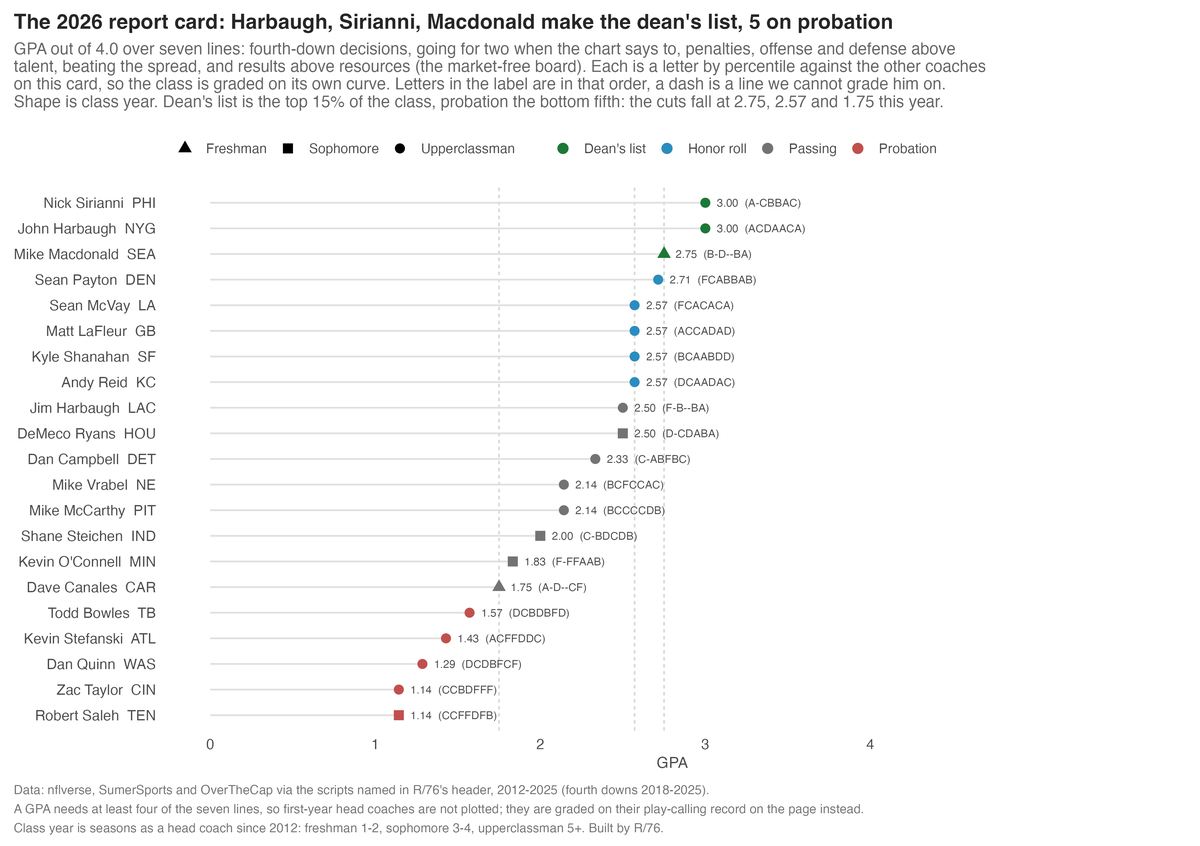
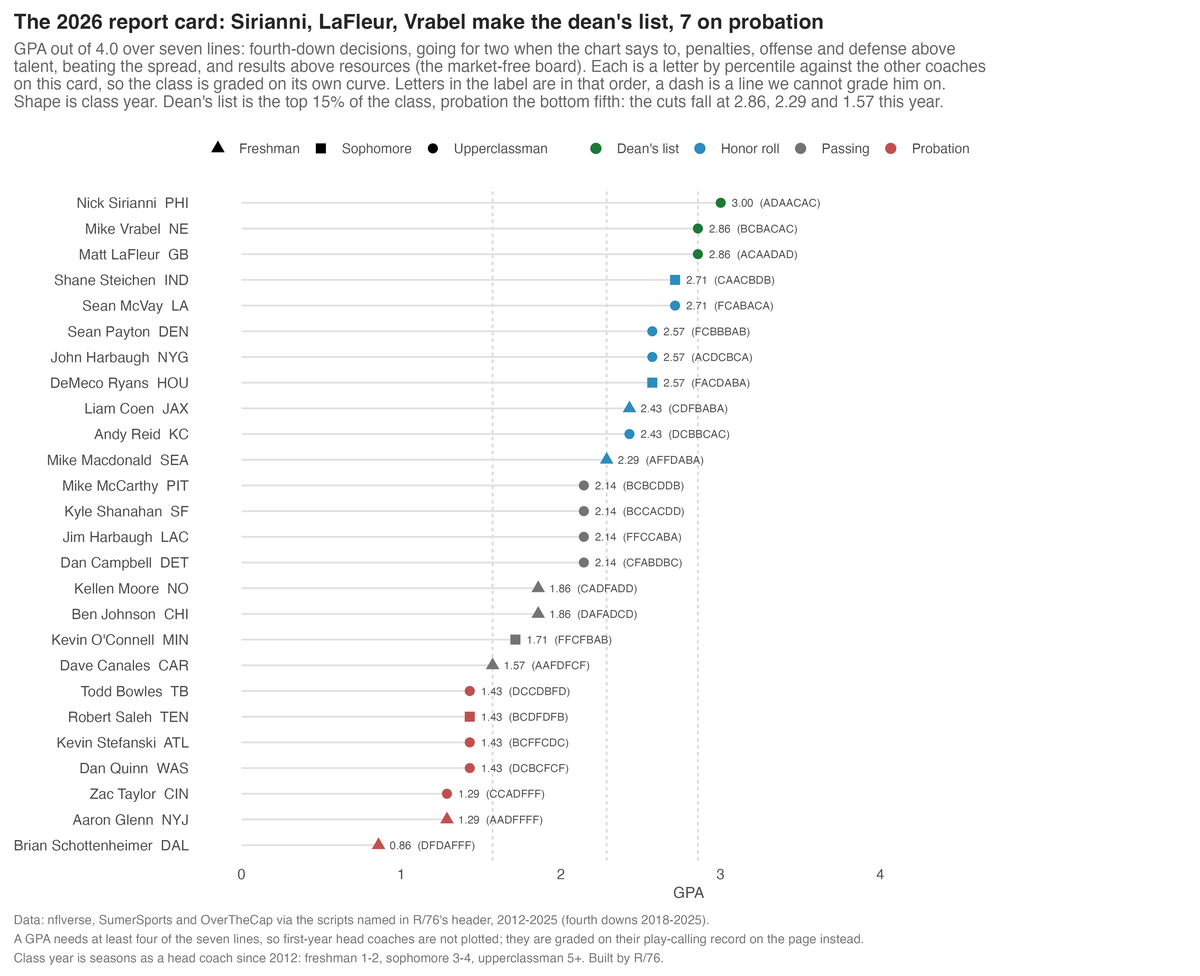
Rebuild card lines per coach-season (R/81) so first-year head coaches are graded on the season they coached

Changed region(s): [[0.0, 0.0, 0.8125, 0.8689], [0.0312, 0.1862, 0.1562, 0.8689], [0.0, 0.8999, 0.7188, 0.993]]

diff --git a/docs/war.html b/docs/war.html
@@ -125,42 +125,42 @@
     <div style="overflow-x:auto"><table class="card" id="rcard">
       <thead><tr><th>#</th><th>Coach</th><th>Class</th><th>4th downs</th><th>Two-point</th><th>Penalties</th><th>Offense</th><th>Defense</th><th>Beats spread</th><th>Results</th><th>As a caller</th><th>GPA</th><th>Tier</th></tr></thead>
       <tbody>
-<tr><td>1</td><td class="name"><img src="https://a.espncdn.com/i/teamlogos/nfl/500/nyg.png" alt="NYG" class="lg">John Harbaugh</td><td>Upperclassman<span class="dim"> (14)</span></td><td class="g gA">A</td><td class="g gC">C</td><td class="g gD">D</td><td class="g gA">A</td><td class="g gA">A</td><td class="g gC">C</td><td class="g gA">A</td><td class="inc">?</td><td data-v="3.000"><b>3.00</b></td><td class="tier tdeans">Dean's list</td></tr>
-<tr><td>2</td><td class="name"><img src="https://a.espncdn.com/i/teamlogos/nfl/500/phi.png" alt="PHI" class="lg">Nick Sirianni</td><td>Upperclassman<span class="dim"> (5)</span></td><td class="g gA">A</td><td class="inc">?</td><td class="g gC">C</td><td class="g gB">B</td><td class="g gB">B</td><td class="g gA">A</td><td class="g gC">C</td><td class="inc">?</td><td data-v="3.000"><b>3.00</b></td><td class="tier tdeans">Dean's list</td></tr>
-<tr><td>3</td><td class="name"><img src="https://a.espncdn.com/i/teamlogos/nfl/500/sea.png" alt="SEA" class="lg">Mike Macdonald</td><td>Freshman<span class="dim"> (2)</span></td><td class="g gB">B</td><td class="inc">?</td><td class="g gD">D</td><td class="inc">?</td><td class="inc">?</td><td class="g gB">B</td><td class="g gA">A</td><td class="g gA">A<span class="dim" style="font-weight:400"> def</span></td><td data-v="2.750"><b>2.75</b></td><td class="tier tdeans">Dean's list</td></tr>
-<tr><td>4</td><td class="name"><img src="https://a.espncdn.com/i/teamlogos/nfl/500/den.png" alt="DEN" class="lg">Sean Payton</td><td>Upperclassman<span class="dim"> (12)</span></td><td class="g gF">F</td><td class="g gC">C</td><td class="g gA">A</td><td class="g gB">B</td><td class="g gB">B</td><td class="g gA">A</td><td class="g gB">B</td><td class="g gA">A<span class="dim" style="font-weight:400"> off</span></td><td data-v="2.714"><b>2.71</b></td><td class="tier thonor">Honor roll</td></tr>
-<tr><td>5</td><td class="name"><img src="https://a.espncdn.com/i/teamlogos/nfl/500/gb.png" alt="GB" class="lg">Matt LaFleur</td><td>Upperclassman<span class="dim"> (7)</span></td><td class="g gA">A</td><td class="g gC">C</td><td class="g gC">C</td><td class="g gA">A</td><td class="g gD">D</td><td class="g gA">A</td><td class="g gD">D</td><td class="g gA">A<span class="dim" style="font-weight:400"> off</span></td><td data-v="2.571"><b>2.57</b></td><td class="tier thonor">Honor roll</td></tr>
-<tr><td>6</td><td class="name"><img src="https://a.espncdn.com/i/teamlogos/nfl/500/kc.png" alt="KC" class="lg">Andy Reid</td><td>Upperclassman<span class="dim"> (14)</span></td><td class="g gD">D</td><td class="g gC">C</td><td class="g gA">A</td><td class="g gA">A</td><td class="g gD">D</td><td class="g gA">A</td><td class="g gC">C</td><td class="g gA">A<span class="dim" style="font-weight:400"> off</span></td><td data-v="2.571"><b>2.57</b></td><td class="tier thonor">Honor roll</td></tr>
-<tr><td>7</td><td class="name"><img src="https://a.espncdn.com/i/teamlogos/nfl/500/lar.png" alt="LA" class="lg">Sean McVay</td><td>Upperclassman<span class="dim"> (9)</span></td><td class="g gF">F</td><td class="g gC">C</td><td class="g gA">A</td><td class="g gC">C</td><td class="g gA">A</td><td class="g gC">C</td><td class="g gA">A</td><td class="g gA">A<span class="dim" style="font-weight:400"> off</span></td><td data-v="2.571"><b>2.57</b></td><td class="tier thonor">Honor roll</td></tr>
-<tr><td>8</td><td class="name"><img src="https://a.espncdn.com/i/teamlogos/nfl/500/sf.png" alt="SF" class="lg">Kyle Shanahan</td><td>Upperclassman<span class="dim"> (9)</span></td><td class="g gB">B</td><td class="g gC">C</td><td class="g gA">A</td><td class="g gA">A</td><td class="g gB">B</td><td class="g gD">D</td><td class="g gD">D</td><td class="g gA">A<span class="dim" style="font-weight:400"> off</span></td><td data-v="2.571"><b>2.57</b></td><td class="tier thonor">Honor roll</td></tr>
-<tr><td>9</td><td class="name"><img src="https://a.espncdn.com/i/teamlogos/nfl/500/hou.png" alt="HOU" class="lg">DeMeco Ryans</td><td>Sophomore<span class="dim"> (3)</span></td><td class="g gD">D</td><td class="inc">?</td><td class="g gC">C</td><td class="g gD">D</td><td class="g gA">A</td><td class="g gB">B</td><td class="g gA">A</td><td class="g gA">A<span class="dim" style="font-weight:400"> def</span></td><td data-v="2.500"><b>2.50</b></td><td class="tier tpassing">Passing</td></tr>
-<tr><td>10</td><td class="name"><img src="https://a.espncdn.com/i/teamlogos/nfl/500/lac.png" alt="LAC" class="lg">Jim Harbaugh</td><td>Upperclassman<span class="dim"> (5)</span></td><td class="g gF">F</td><td class="inc">?</td><td class="g gB">B</td><td class="inc">?</td><td class="inc">?</td><td class="g gB">B</td><td class="g gA">A</td><td class="inc">?</td><td data-v="2.500"><b>2.50</b></td><td class="tier tpassing">Passing</td></tr>
-<tr><td>11</td><td class="name"><img src="https://a.espncdn.com/i/teamlogos/nfl/500/det.png" alt="DET" class="lg">Dan Campbell</td><td>Upperclassman<span class="dim"> (5)</span></td><td class="g gC">C</td><td class="inc">?</td><td class="g gA">A</td><td class="g gB">B</td><td class="g gF">F</td><td class="g gB">B</td><td class="g gC">C</td><td class="inc">?</td><td data-v="2.333"><b>2.33</b></td><td class="tier tpassing">Passing</td></tr>
-<tr><td>12</td><td class="name"><img src="https://a.espncdn.com/i/teamlogos/nfl/500/ne.png" alt="NE" class="lg">Mike Vrabel</td><td>Upperclassman<span class="dim"> (7)</span></td><td class="g gB">B</td><td class="g gC">C</td><td class="g gF">F</td><td class="g gC">C</td><td class="g gC">C</td><td class="g gA">A</td><td class="g gC">C</td><td class="inc">?</td><td data-v="2.143"><b>2.14</b></td><td class="tier tpassing">Passing</td></tr>
-<tr><td>13</td><td class="name"><img src="https://a.espncdn.com/i/teamlogos/nfl/500/pit.png" alt="PIT" class="lg">Mike McCarthy</td><td>Upperclassman<span class="dim"> (12)</span></td><td class="g gB">B</td><td class="g gC">C</td><td class="g gC">C</td><td class="g gC">C</td><td class="g gC">C</td><td class="g gD">D</td><td class="g gB">B</td><td class="g gA">A<span class="dim" style="font-weight:400"> off</span></td><td data-v="2.143"><b>2.14</b></td><td class="tier tpassing">Passing</td></tr>
-<tr><td>14</td><td class="name"><img src="https://a.espncdn.com/i/teamlogos/nfl/500/ind.png" alt="IND" class="lg">Shane Steichen</td><td>Sophomore<span class="dim"> (3)</span></td><td class="g gC">C</td><td class="inc">?</td><td class="g gB">B</td><td class="g gD">D</td><td class="g gC">C</td><td class="g gD">D</td><td class="g gB">B</td><td class="g gB">B<span class="dim" style="font-weight:400"> off</span></td><td data-v="2.000"><b>2.00</b></td><td class="tier tpassing">Passing</td></tr>
-<tr><td>15</td><td class="name"><img src="https://a.espncdn.com/i/teamlogos/nfl/500/min.png" alt="MIN" class="lg">Kevin O'Connell</td><td>Sophomore<span class="dim"> (4)</span></td><td class="g gF">F</td><td class="inc">?</td><td class="g gF">F</td><td class="g gF">F</td><td class="g gA">A</td><td class="g gA">A</td><td class="g gB">B</td><td class="g gF">F<span class="dim" style="font-weight:400"> off</span></td><td data-v="1.833"><b>1.83</b></td><td class="tier tpassing">Passing</td></tr>
-<tr><td>16</td><td class="name"><img src="https://a.espncdn.com/i/teamlogos/nfl/500-dark/car.png" alt="CAR" class="lg">Dave Canales</td><td>Freshman<span class="dim"> (2)</span></td><td class="g gA">A</td><td class="inc">?</td><td class="g gD">D</td><td class="inc">?</td><td class="inc">?</td><td class="g gC">C</td><td class="g gF">F</td><td class="g gD">D<span class="dim" style="font-weight:400"> off</span></td><td data-v="1.750"><b>1.75</b></td><td class="tier tpassing">Passing</td></tr>
-<tr><td>17</td><td class="name"><img src="https://a.espncdn.com/i/teamlogos/nfl/500/tb.png" alt="TB" class="lg">Todd Bowles</td><td>Upperclassman<span class="dim"> (8)</span></td><td class="g gD">D</td><td class="g gC">C</td><td class="g gB">B</td><td class="g gD">D</td><td class="g gB">B</td><td class="g gF">F</td><td class="g gD">D</td><td class="g gA">A<span class="dim" style="font-weight:400"> def</span></td><td data-v="1.571"><b>1.57</b></td><td class="tier tprobation">Probation</td></tr>
-<tr><td>18</td><td class="name"><img src="https://a.espncdn.com/i/teamlogos/nfl/500/atl.png" alt="ATL" class="lg">Kevin Stefanski</td><td>Upperclassman<span class="dim"> (6)</span></td><td class="g gA">A</td><td class="g gC">C</td><td class="g gF">F</td><td class="g gF">F</td><td class="g gD">D</td><td class="g gD">D</td><td class="g gC">C</td><td class="g gD">D<span class="dim" style="font-weight:400"> off</span></td><td data-v="1.429"><b>1.43</b></td><td class="tier tprobation">Probation</td></tr>
-<tr><td>19</td><td class="name"><img src="https://a.espncdn.com/i/teamlogos/nfl/500/wsh.png" alt="WAS" class="lg">Dan Quinn</td><td>Upperclassman<span class="dim"> (7)</span></td><td class="g gD">D</td><td class="g gC">C</td><td class="g gD">D</td><td class="g gB">B</td><td class="g gF">F</td><td class="g gC">C</td><td class="g gF">F</td><td class="g gA">A<span class="dim" style="font-weight:400"> def</span></td><td data-v="1.286"><b>1.29</b></td><td class="tier tprobation">Probation</td></tr>
-<tr><td>20</td><td class="name"><img src="https://a.espncdn.com/i/teamlogos/nfl/500/cin.png" alt="CIN" class="lg">Zac Taylor</td><td>Upperclassman<span class="dim"> (7)</span></td><td class="g gC">C</td><td class="g gC">C</td><td class="g gB">B</td><td class="g gD">D</td><td class="g gF">F</td><td class="g gF">F</td><td class="g gF">F</td><td class="g gC">C<span class="dim" style="font-weight:400"> off</span></td><td data-v="1.143"><b>1.14</b></td><td class="tier tprobation">Probation</td></tr>
-<tr><td>21</td><td class="name"><img src="https://a.espncdn.com/i/teamlogos/nfl/500/ten.png" alt="TEN" class="lg">Robert Saleh</td><td>Sophomore<span class="dim"> (4)</span></td><td class="g gC">C</td><td class="g gC">C</td><td class="g gF">F</td><td class="g gF">F</td><td class="g gD">D</td><td class="g gF">F</td><td class="g gB">B</td><td class="g gB">B<span class="dim" style="font-weight:400"> def</span></td><td data-v="1.143"><b>1.14</b></td><td class="tier tprobation">Probation</td></tr>
-<tr class="sep"><td colspan="13">First-year and new head coaches: no head-coaching record yet, so they are graded on how they called plays before this</td></tr>
-<tr><td></td><td class="name"><img src="https://a.espncdn.com/i/teamlogos/nfl/500/cle.png" alt="CLE" class="lg">Todd Monken</td><td>New hire<span class="dim"> (0)</span></td><td class="inc">?</td><td class="inc">?</td><td class="inc">?</td><td class="inc">?</td><td class="inc">?</td><td class="inc">?</td><td class="inc">?</td><td class="g gA">A<span class="dim" style="font-weight:400"> off</span></td><td data-v="-1" class="inc">no record</td><td class="tier tincomplete">Incomplete</td></tr>
-<tr><td></td><td class="name"><img src="https://a.espncdn.com/i/teamlogos/nfl/500/chi.png" alt="CHI" class="lg">Ben Johnson</td><td>Freshman<span class="dim"> (1)</span></td><td class="inc">?</td><td class="inc">?</td><td class="inc">?</td><td class="inc">?</td><td class="inc">?</td><td class="g gC">C</td><td class="g gD">D</td><td class="g gA">A<span class="dim" style="font-weight:400"> off</span></td><td data-v="-1" class="inc">no record</td><td class="tier tincomplete">Incomplete</td></tr>
-<tr><td></td><td class="name"><img src="https://a.espncdn.com/i/teamlogos/nfl/500/jax.png" alt="JAX" class="lg">Liam Coen</td><td>Freshman<span class="dim"> (1)</span></td><td class="inc">?</td><td class="inc">?</td><td class="inc">?</td><td class="inc">?</td><td class="inc">?</td><td class="g gB">B</td><td class="g gA">A</td><td class="g gA">A<span class="dim" style="font-weight:400"> off</span></td><td data-v="-1" class="inc">no record</td><td class="tier tincomplete">Incomplete</td></tr>
-<tr><td></td><td class="name"><img src="https://a.espncdn.com/i/teamlogos/nfl/500/bal.png" alt="BAL" class="lg">Jesse Minter</td><td>New hire<span class="dim"> (0)</span></td><td class="inc">?</td><td class="inc">?</td><td class="inc">?</td><td class="inc">?</td><td class="inc">?</td><td class="inc">?</td><td class="inc">?</td><td class="g gA">A<span class="dim" style="font-weight:400"> def</span></td><td data-v="-1" class="inc">no record</td><td class="tier tincomplete">Incomplete</td></tr>
-<tr><td></td><td class="name"><img src="https://a.espncdn.com/i/teamlogos/nfl/500/buf.png" alt="BUF" class="lg">Joe Brady</td><td>New hire<span class="dim"> (0)</span></td><td class="inc">?</td><td class="inc">?</td><td class="inc">?</td><td class="inc">?</td><td class="inc">?</td><td class="inc">?</td><td class="inc">?</td><td class="g gA">A<span class="dim" style="font-weight:400"> off</span></td><td data-v="-1" class="inc">no record</td><td class="tier tincomplete">Incomplete</td></tr>
-<tr><td></td><td class="name"><img src="https://a.espncdn.com/i/teamlogos/nfl/500/no.png" alt="NO" class="lg">Kellen Moore</td><td>Freshman<span class="dim"> (1)</span></td><td class="inc">?</td><td class="inc">?</td><td class="inc">?</td><td class="inc">?</td><td class="inc">?</td><td class="g gD">D</td><td class="g gD">D</td><td class="g gB">B<span class="dim" style="font-weight:400"> off</span></td><td data-v="-1" class="inc">no record</td><td class="tier tincomplete">Incomplete</td></tr>
-<tr><td></td><td class="name"><img src="https://a.espncdn.com/i/teamlogos/nfl/500/mia.png" alt="MIA" class="lg">Jeff Hafley</td><td>New hire<span class="dim"> (0)</span></td><td class="inc">?</td><td class="inc">?</td><td class="inc">?</td><td class="inc">?</td><td class="inc">?</td><td class="inc">?</td><td class="inc">?</td><td class="g gB">B<span class="dim" style="font-weight:400"> def</span></td><td data-v="-1" class="inc">no record</td><td class="tier tincomplete">Incomplete</td></tr>
-<tr><td></td><td class="name"><img src="https://a.espncdn.com/i/teamlogos/nfl/500/dal.png" alt="DAL" class="lg">Brian Schottenheimer</td><td>Freshman<span class="dim"> (1)</span></td><td class="inc">?</td><td class="inc">?</td><td class="inc">?</td><td class="inc">?</td><td class="inc">?</td><td class="g gF">F</td><td class="g gF">F</td><td class="g gB">B<span class="dim" style="font-weight:400"> off</span></td><td data-v="-1" class="inc">no record</td><td class="tier tincomplete">Incomplete</td></tr>
-<tr><td></td><td class="name"><img src="https://a.espncdn.com/i/teamlogos/nfl/500/lv.png" alt="LV" class="lg">Klint Kubiak</td><td>New hire<span class="dim"> (0)</span></td><td class="inc">?</td><td class="inc">?</td><td class="inc">?</td><td class="inc">?</td><td class="inc">?</td><td class="inc">?</td><td class="inc">?</td><td class="g gC">C<span class="dim" style="font-weight:400"> off</span></td><td data-v="-1" class="inc">no record</td><td class="tier tincomplete">Incomplete</td></tr>
-<tr><td></td><td class="name"><img src="https://a.espncdn.com/i/teamlogos/nfl/500/nyj.png" alt="NYJ" class="lg">Aaron Glenn</td><td>Freshman<span class="dim"> (1)</span></td><td class="inc">?</td><td class="inc">?</td><td class="inc">?</td><td class="inc">?</td><td class="inc">?</td><td class="g gF">F</td><td class="g gF">F</td><td class="g gD">D<span class="dim" style="font-weight:400"> def</span></td><td data-v="-1" class="inc">no record</td><td class="tier tincomplete">Incomplete</td></tr>
-<tr><td></td><td class="name"><img src="https://a.espncdn.com/i/teamlogos/nfl/500/ari.png" alt="ARI" class="lg">Mike LaFleur</td><td>New hire<span class="dim"> (0)</span></td><td class="inc">?</td><td class="inc">?</td><td class="inc">?</td><td class="inc">?</td><td class="inc">?</td><td class="inc">?</td><td class="inc">?</td><td class="g gF">F<span class="dim" style="font-weight:400"> off</span></td><td data-v="-1" class="inc">no record</td><td class="tier tincomplete">Incomplete</td></tr>
+<tr><td>1</td><td class="name"><img src="https://a.espncdn.com/i/teamlogos/nfl/500/phi.png" alt="PHI" class="lg">Nick Sirianni</td><td>Upperclassman<span class="dim"> (5)</span></td><td class="g gA">A</td><td class="g gD">D</td><td class="g gA">A</td><td class="g gA">A</td><td class="g gC">C</td><td class="g gA">A</td><td class="g gC">C</td><td class="inc">?</td><td data-v="3.000"><b>3.00</b></td><td class="tier tdeans">Dean's list</td></tr>
+<tr><td>2</td><td class="name"><img src="https://a.espncdn.com/i/teamlogos/nfl/500/gb.png" alt="GB" class="lg">Matt LaFleur</td><td>Upperclassman<span class="dim"> (7)</span></td><td class="g gA">A</td><td class="g gC">C</td><td class="g gA">A</td><td class="g gA">A</td><td class="g gD">D</td><td class="g gA">A</td><td class="g gD">D</td><td class="g gA">A<span class="dim" style="font-weight:400"> off</span></td><td data-v="2.857"><b>2.86</b></td><td class="tier tdeans">Dean's list</td></tr>
+<tr><td>3</td><td class="name"><img src="https://a.espncdn.com/i/teamlogos/nfl/500/ne.png" alt="NE" class="lg">Mike Vrabel</td><td>Upperclassman<span class="dim"> (7)</span></td><td class="g gB">B</td><td class="g gC">C</td><td class="g gB">B</td><td class="g gA">A</td><td class="g gC">C</td><td class="g gA">A</td><td class="g gC">C</td><td class="inc">?</td><td data-v="2.857"><b>2.86</b></td><td class="tier tdeans">Dean's list</td></tr>
+<tr><td>4</td><td class="name"><img src="https://a.espncdn.com/i/teamlogos/nfl/500/ind.png" alt="IND" class="lg">Shane Steichen</td><td>Sophomore<span class="dim"> (3)</span></td><td class="g gC">C</td><td class="g gA">A</td><td class="g gA">A</td><td class="g gC">C</td><td class="g gB">B</td><td class="g gD">D</td><td class="g gB">B</td><td class="g gB">B<span class="dim" style="font-weight:400"> off</span></td><td data-v="2.714"><b>2.71</b></td><td class="tier thonor">Honor roll</td></tr>
+<tr><td>5</td><td class="name"><img src="https://a.espncdn.com/i/teamlogos/nfl/500/lar.png" alt="LA" class="lg">Sean McVay</td><td>Upperclassman<span class="dim"> (9)</span></td><td class="g gF">F</td><td class="g gC">C</td><td class="g gA">A</td><td class="g gB">B</td><td class="g gA">A</td><td class="g gC">C</td><td class="g gA">A</td><td class="g gA">A<span class="dim" style="font-weight:400"> off</span></td><td data-v="2.714"><b>2.71</b></td><td class="tier thonor">Honor roll</td></tr>
+<tr><td>6</td><td class="name"><img src="https://a.espncdn.com/i/teamlogos/nfl/500/den.png" alt="DEN" class="lg">Sean Payton</td><td>Upperclassman<span class="dim"> (12)</span></td><td class="g gF">F</td><td class="g gC">C</td><td class="g gB">B</td><td class="g gB">B</td><td class="g gB">B</td><td class="g gA">A</td><td class="g gB">B</td><td class="g gA">A<span class="dim" style="font-weight:400"> off</span></td><td data-v="2.571"><b>2.57</b></td><td class="tier thonor">Honor roll</td></tr>
+<tr><td>7</td><td class="name"><img src="https://a.espncdn.com/i/teamlogos/nfl/500/hou.png" alt="HOU" class="lg">DeMeco Ryans</td><td>Sophomore<span class="dim"> (3)</span></td><td class="g gF">F</td><td class="g gA">A</td><td class="g gC">C</td><td class="g gD">D</td><td class="g gA">A</td><td class="g gB">B</td><td class="g gA">A</td><td class="g gA">A<span class="dim" style="font-weight:400"> def</span></td><td data-v="2.571"><b>2.57</b></td><td class="tier thonor">Honor roll</td></tr>
+<tr><td>8</td><td class="name"><img src="https://a.espncdn.com/i/teamlogos/nfl/500/nyg.png" alt="NYG" class="lg">John Harbaugh</td><td>Upperclassman<span class="dim"> (14)</span></td><td class="g gA">A</td><td class="g gC">C</td><td class="g gD">D</td><td class="g gC">C</td><td class="g gB">B</td><td class="g gC">C</td><td class="g gA">A</td><td class="inc">?</td><td data-v="2.571"><b>2.57</b></td><td class="tier thonor">Honor roll</td></tr>
+<tr><td>9</td><td class="name"><img src="https://a.espncdn.com/i/teamlogos/nfl/500/jax.png" alt="JAX" class="lg">Liam Coen</td><td>Freshman<span class="dim"> (1)</span></td><td class="g gC">C</td><td class="g gD">D</td><td class="g gF">F</td><td class="g gB">B</td><td class="g gA">A</td><td class="g gB">B</td><td class="g gA">A</td><td class="g gA">A<span class="dim" style="font-weight:400"> off</span></td><td data-v="2.429"><b>2.43</b></td><td class="tier thonor">Honor roll</td></tr>
+<tr><td>10</td><td class="name"><img src="https://a.espncdn.com/i/teamlogos/nfl/500/kc.png" alt="KC" class="lg">Andy Reid</td><td>Upperclassman<span class="dim"> (14)</span></td><td class="g gD">D</td><td class="g gC">C</td><td class="g gB">B</td><td class="g gB">B</td><td class="g gC">C</td><td class="g gA">A</td><td class="g gC">C</td><td class="g gA">A<span class="dim" style="font-weight:400"> off</span></td><td data-v="2.429"><b>2.43</b></td><td class="tier thonor">Honor roll</td></tr>
+<tr><td>11</td><td class="name"><img src="https://a.espncdn.com/i/teamlogos/nfl/500/sea.png" alt="SEA" class="lg">Mike Macdonald</td><td>Freshman<span class="dim"> (2)</span></td><td class="g gA">A</td><td class="g gF">F</td><td class="g gF">F</td><td class="g gD">D</td><td class="g gA">A</td><td class="g gB">B</td><td class="g gA">A</td><td class="g gA">A<span class="dim" style="font-weight:400"> def</span></td><td data-v="2.286"><b>2.29</b></td><td class="tier thonor">Honor roll</td></tr>
+<tr><td>12</td><td class="name"><img src="https://a.espncdn.com/i/teamlogos/nfl/500/det.png" alt="DET" class="lg">Dan Campbell</td><td>Upperclassman<span class="dim"> (5)</span></td><td class="g gC">C</td><td class="g gF">F</td><td class="g gA">A</td><td class="g gB">B</td><td class="g gD">D</td><td class="g gB">B</td><td class="g gC">C</td><td class="inc">?</td><td data-v="2.143"><b>2.14</b></td><td class="tier tpassing">Passing</td></tr>
+<tr><td>13</td><td class="name"><img src="https://a.espncdn.com/i/teamlogos/nfl/500/lac.png" alt="LAC" class="lg">Jim Harbaugh</td><td>Upperclassman<span class="dim"> (5)</span></td><td class="g gF">F</td><td class="g gF">F</td><td class="g gC">C</td><td class="g gC">C</td><td class="g gA">A</td><td class="g gB">B</td><td class="g gA">A</td><td class="inc">?</td><td data-v="2.143"><b>2.14</b></td><td class="tier tpassing">Passing</td></tr>
+<tr><td>14</td><td class="name"><img src="https://a.espncdn.com/i/teamlogos/nfl/500/pit.png" alt="PIT" class="lg">Mike McCarthy</td><td>Upperclassman<span class="dim"> (12)</span></td><td class="g gB">B</td><td class="g gC">C</td><td class="g gB">B</td><td class="g gC">C</td><td class="g gD">D</td><td class="g gD">D</td><td class="g gB">B</td><td class="g gA">A<span class="dim" style="font-weight:400"> off</span></td><td data-v="2.143"><b>2.14</b></td><td class="tier tpassing">Passing</td></tr>
+<tr><td>15</td><td class="name"><img src="https://a.espncdn.com/i/teamlogos/nfl/500/sf.png" alt="SF" class="lg">Kyle Shanahan</td><td>Upperclassman<span class="dim"> (9)</span></td><td class="g gB">B</td><td class="g gC">C</td><td class="g gC">C</td><td class="g gA">A</td><td class="g gC">C</td><td class="g gD">D</td><td class="g gD">D</td><td class="g gA">A<span class="dim" style="font-weight:400"> off</span></td><td data-v="2.143"><b>2.14</b></td><td class="tier tpassing">Passing</td></tr>
+<tr><td>16</td><td class="name"><img src="https://a.espncdn.com/i/teamlogos/nfl/500/chi.png" alt="CHI" class="lg">Ben Johnson</td><td>Freshman<span class="dim"> (1)</span></td><td class="g gD">D</td><td class="g gA">A</td><td class="g gF">F</td><td class="g gA">A</td><td class="g gD">D</td><td class="g gC">C</td><td class="g gD">D</td><td class="g gA">A<span class="dim" style="font-weight:400"> off</span></td><td data-v="1.857"><b>1.86</b></td><td class="tier tpassing">Passing</td></tr>
+<tr><td>17</td><td class="name"><img src="https://a.espncdn.com/i/teamlogos/nfl/500/no.png" alt="NO" class="lg">Kellen Moore</td><td>Freshman<span class="dim"> (1)</span></td><td class="g gC">C</td><td class="g gA">A</td><td class="g gD">D</td><td class="g gF">F</td><td class="g gA">A</td><td class="g gD">D</td><td class="g gD">D</td><td class="g gB">B<span class="dim" style="font-weight:400"> off</span></td><td data-v="1.857"><b>1.86</b></td><td class="tier tpassing">Passing</td></tr>
+<tr><td>18</td><td class="name"><img src="https://a.espncdn.com/i/teamlogos/nfl/500/min.png" alt="MIN" class="lg">Kevin O'Connell</td><td>Sophomore<span class="dim"> (4)</span></td><td class="g gF">F</td><td class="g gF">F</td><td class="g gC">C</td><td class="g gF">F</td><td class="g gB">B</td><td class="g gA">A</td><td class="g gB">B</td><td class="g gF">F<span class="dim" style="font-weight:400"> off</span></td><td data-v="1.714"><b>1.71</b></td><td class="tier tpassing">Passing</td></tr>
+<tr><td>19</td><td class="name"><img src="https://a.espncdn.com/i/teamlogos/nfl/500-dark/car.png" alt="CAR" class="lg">Dave Canales</td><td>Freshman<span class="dim"> (2)</span></td><td class="g gA">A</td><td class="g gA">A</td><td class="g gF">F</td><td class="g gD">D</td><td class="g gF">F</td><td class="g gC">C</td><td class="g gF">F</td><td class="g gD">D<span class="dim" style="font-weight:400"> off</span></td><td data-v="1.571"><b>1.57</b></td><td class="tier tpassing">Passing</td></tr>
+<tr><td>20</td><td class="name"><img src="https://a.espncdn.com/i/teamlogos/nfl/500/atl.png" alt="ATL" class="lg">Kevin Stefanski</td><td>Upperclassman<span class="dim"> (6)</span></td><td class="g gB">B</td><td class="g gC">C</td><td class="g gF">F</td><td class="g gF">F</td><td class="g gC">C</td><td class="g gD">D</td><td class="g gC">C</td><td class="g gD">D<span class="dim" style="font-weight:400"> off</span></td><td data-v="1.429"><b>1.43</b></td><td class="tier tprobation">Probation</td></tr>
+<tr><td>21</td><td class="name"><img src="https://a.espncdn.com/i/teamlogos/nfl/500/tb.png" alt="TB" class="lg">Todd Bowles</td><td>Upperclassman<span class="dim"> (8)</span></td><td class="g gD">D</td><td class="g gC">C</td><td class="g gC">C</td><td class="g gD">D</td><td class="g gB">B</td><td class="g gF">F</td><td class="g gD">D</td><td class="g gA">A<span class="dim" style="font-weight:400"> def</span></td><td data-v="1.429"><b>1.43</b></td><td class="tier tprobation">Probation</td></tr>
+<tr><td>22</td><td class="name"><img src="https://a.espncdn.com/i/teamlogos/nfl/500/ten.png" alt="TEN" class="lg">Robert Saleh</td><td>Sophomore<span class="dim"> (4)</span></td><td class="g gB">B</td><td class="g gC">C</td><td class="g gD">D</td><td class="g gF">F</td><td class="g gD">D</td><td class="g gF">F</td><td class="g gB">B</td><td class="g gB">B<span class="dim" style="font-weight:400"> def</span></td><td data-v="1.429"><b>1.43</b></td><td class="tier tprobation">Probation</td></tr>
+<tr><td>23</td><td class="name"><img src="https://a.espncdn.com/i/teamlogos/nfl/500/wsh.png" alt="WAS" class="lg">Dan Quinn</td><td>Upperclassman<span class="dim"> (7)</span></td><td class="g gD">D</td><td class="g gC">C</td><td class="g gB">B</td><td class="g gC">C</td><td class="g gF">F</td><td class="g gC">C</td><td class="g gF">F</td><td class="g gA">A<span class="dim" style="font-weight:400"> def</span></td><td data-v="1.429"><b>1.43</b></td><td class="tier tprobation">Probation</td></tr>
+<tr><td>24</td><td class="name"><img src="https://a.espncdn.com/i/teamlogos/nfl/500/cin.png" alt="CIN" class="lg">Zac Taylor</td><td>Upperclassman<span class="dim"> (7)</span></td><td class="g gC">C</td><td class="g gC">C</td><td class="g gA">A</td><td class="g gD">D</td><td class="g gF">F</td><td class="g gF">F</td><td class="g gF">F</td><td class="g gC">C<span class="dim" style="font-weight:400"> off</span></td><td data-v="1.286"><b>1.29</b></td><td class="tier tprobation">Probation</td></tr>
+<tr><td>25</td><td class="name"><img src="https://a.espncdn.com/i/teamlogos/nfl/500/nyj.png" alt="NYJ" class="lg">Aaron Glenn</td><td>Freshman<span class="dim"> (1)</span></td><td class="g gA">A</td><td class="g gA">A</td><td class="g gD">D</td><td class="g gF">F</td><td class="g gF">F</td><td class="g gF">F</td><td class="g gF">F</td><td class="g gD">D<span class="dim" style="font-weight:400"> def</span></td><td data-v="1.286"><b>1.29</b></td><td class="tier tprobation">Probation</td></tr>
+<tr><td>26</td><td class="name"><img src="https://a.espncdn.com/i/teamlogos/nfl/500/dal.png" alt="DAL" class="lg">Brian Schottenheimer</td><td>Freshman<span class="dim"> (1)</span></td><td class="g gD">D</td><td class="g gF">F</td><td class="g gD">D</td><td class="g gA">A</td><td class="g gF">F</td><td class="g gF">F</td><td class="g gF">F</td><td class="g gB">B<span class="dim" style="font-weight:400"> off</span></td><td data-v="0.857"><b>0.86</b></td><td class="tier tprobation">Probation</td></tr>
+<tr class="sep"><td colspan="13">Never been a head coach: graded only on how they called plays</td></tr>
+<tr><td></td><td class="name"><img src="https://a.espncdn.com/i/teamlogos/nfl/500/cle.png" alt="CLE" class="lg">Todd Monken</td><td>New hire<span class="dim"> (0)</span></td><td class="inc">?</td><td class="inc">?</td><td class="inc">?</td><td class="inc">?</td><td class="inc">?</td><td class="inc">?</td><td class="inc">?</td><td class="g gA">A<span class="dim" style="font-weight:400"> off</span></td><td data-v="-1" class="inc">never a HC</td><td class="tier tincomplete">Incomplete</td></tr>
+<tr><td></td><td class="name"><img src="https://a.espncdn.com/i/teamlogos/nfl/500/bal.png" alt="BAL" class="lg">Jesse Minter</td><td>New hire<span class="dim"> (0)</span></td><td class="inc">?</td><td class="inc">?</td><td class="inc">?</td><td class="inc">?</td><td class="inc">?</td><td class="inc">?</td><td class="inc">?</td><td class="g gA">A<span class="dim" style="font-weight:400"> def</span></td><td data-v="-1" class="inc">never a HC</td><td class="tier tincomplete">Incomplete</td></tr>
+<tr><td></td><td class="name"><img src="https://a.espncdn.com/i/teamlogos/nfl/500/buf.png" alt="BUF" class="lg">Joe Brady</td><td>New hire<span class="dim"> (0)</span></td><td class="inc">?</td><td class="inc">?</td><td class="inc">?</td><td class="inc">?</td><td class="inc">?</td><td class="inc">?</td><td class="inc">?</td><td class="g gA">A<span class="dim" style="font-weight:400"> off</span></td><td data-v="-1" class="inc">never a HC</td><td class="tier tincomplete">Incomplete</td></tr>
+<tr><td></td><td class="name"><img src="https://a.espncdn.com/i/teamlogos/nfl/500/mia.png" alt="MIA" class="lg">Jeff Hafley</td><td>New hire<span class="dim"> (0)</span></td><td class="inc">?</td><td class="inc">?</td><td class="inc">?</td><td class="inc">?</td><td class="inc">?</td><td class="inc">?</td><td class="inc">?</td><td class="g gB">B<span class="dim" style="font-weight:400"> def</span></td><td data-v="-1" class="inc">never a HC</td><td class="tier tincomplete">Incomplete</td></tr>
+<tr><td></td><td class="name"><img src="https://a.espncdn.com/i/teamlogos/nfl/500/lv.png" alt="LV" class="lg">Klint Kubiak</td><td>New hire<span class="dim"> (0)</span></td><td class="inc">?</td><td class="inc">?</td><td class="inc">?</td><td class="inc">?</td><td class="inc">?</td><td class="inc">?</td><td class="inc">?</td><td class="g gC">C<span class="dim" style="font-weight:400"> off</span></td><td data-v="-1" class="inc">never a HC</td><td class="tier tincomplete">Incomplete</td></tr>
+<tr><td></td><td class="name"><img src="https://a.espncdn.com/i/teamlogos/nfl/500/ari.png" alt="ARI" class="lg">Mike LaFleur</td><td>New hire<span class="dim"> (0)</span></td><td class="inc">?</td><td class="inc">?</td><td class="inc">?</td><td class="inc">?</td><td class="inc">?</td><td class="inc">?</td><td class="inc">?</td><td class="g gF">F<span class="dim" style="font-weight:400"> off</span></td><td data-v="-1" class="inc">never a HC</td><td class="tier tincomplete">Incomplete</td></tr>
       </tbody>
     </table></div>
-    <p class="note" style="margin-top:10px"><b>The lines.</b> <b>4th downs</b>: win-probability cost of his fourth-down choices against the league in his own seasons (2018-2025). <b>Two-point</b>: how often he goes for two when the chart says to. <b>Penalties</b>: penalty rate beyond what the situation predicts. <b>Offense</b> and <b>Defense</b>: EPA per play above the talent controls. <b>Beats spread</b>: wins beyond the closing line, shrunk. <b>Results</b>: the market-free WAR below, which is point differential above payroll, roster ratings and the quarterback. Roster ratings are Madden's, and they are launch ratings: EA's public feed only serves the current week, and no archive of in-season ratings exists, so a roster that gets healthy or falls apart mid-season is not visible here. A is the top fifth of this year's coaches on that line, F the bottom fifth; a question mark is a line we cannot grade him on. Tiers are curved too: the dean's list is the top 15% of the class (John Harbaugh, Nick Sirianni, Mike Macdonald this year), then the honor roll, then passing, with the bottom fifth on probation. <b>As a caller</b> is his EPA per play as an offensive or defensive play-caller from 2012 on, graded against every caller on that side of the ball, which is the only grade available for a coach who has not been a head coach yet. A GPA needs four lines, so first-year head coaches have none yet and sit in their own group at the bottom. Class is seasons as a head coach since 2012: freshman 1-2, sophomore 3-4, upperclassman 5+.</p>
+    <p class="note" style="margin-top:10px"><b>The lines.</b> <b>4th downs</b>: win-probability cost of his fourth-down choices against the league in his own seasons (2018-2025). <b>Two-point</b>: how often he goes for two when the chart says to. <b>Penalties</b>: penalty rate beyond what the situation predicts. <b>Offense</b> and <b>Defense</b>: EPA per play above the talent controls. <b>Beats spread</b>: wins beyond the closing line, shrunk. <b>Results</b>: the market-free WAR below, which is point differential above payroll, roster ratings and the quarterback. Roster ratings are Madden's, and they are launch ratings: EA's public feed only serves the current week, and no archive of in-season ratings exists, so a roster that gets healthy or falls apart mid-season is not visible here. A is the top fifth of this year's coaches on that line, F the bottom fifth; a question mark is a line we cannot grade him on. Tiers are curved too: the dean's list is the top 15% of the class (John Harbaugh, Nick Sirianni, Mike Macdonald this year), then the honor roll, then passing, with the bottom fifth on probation. <b>As a caller</b> is his EPA per play as an offensive or defensive play-caller from 2012 on, graded against every caller on that side of the ball, which is the only grade available for a coach who has not been a head coach yet. Every line is computed per season and averaged, so a coach with one season is graded on that season rather than left blank: only the six men who have never been a head coach fall to the play-caller grade alone. Class is seasons as a head coach since 2012: freshman 1-2, sophomore 3-4, upperclassman 5+.</p>
     <p class="note"><b>Why only active coaches.</b> Only the men on a sideline this season are graded, and they are graded against each other. The first version of this card had Sean McDermott on top and Buffalo had already replaced him.</p>
     <figure>
       <img src="figures/report_card_tiers.png" alt="Active head coaches by GPA with tier colours, class-year shapes and the seven letter grades in each label.">
